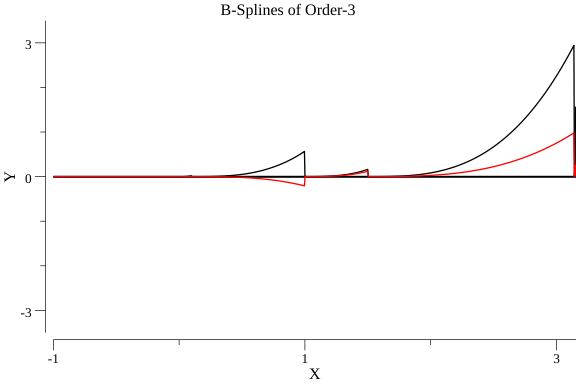
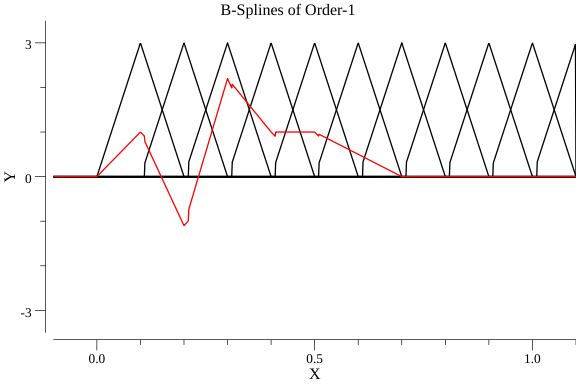
[Spline] Implement Unique B-Spline #2 : Fix interface BSpline

diff --git a/bspline/bspline_test.go b/bspline/bspline_test.go
@@ -12,13 +12,13 @@ import (
 )
 
 func TestSimpleBSpline(t *testing.T) {
-	const order = 3
-	// knots := knot.NewUniformKnot(0, 1, 10, order)
-	builder := knot.NewArbitraryKnotBuilder()
-	builder = builder.Append(0.0).Append(1.0).Append(1.5).Append(0.1).Append(3.1415)
-	builder = builder.AppendPaddingLeft(-1.0).AppendPaddingLeft(-2.0)
-	builder = builder.AppendPaddingRight(3.15).AppendPaddingRight(3.155)
-	knots := builder.Build()
+	const order = 1
+	knots := knot.NewUniformKnot(0, 1, 10, order)
+	// builder := knot.NewArbitraryKnotBuilder()
+	// builder = builder.Append(0.0).Append(1.0).Append(1.5).Append(0.1).Append(3.1415)
+	// builder = builder.AppendPaddingLeft(-1.0).AppendPaddingLeft(-2.0)
+	// builder = builder.AppendPaddingRight(3.15).AppendPaddingRight(3.155)
+	// knots := builder.Build()
 
 	p, err := plot.New()
 	if err != nil {
@@ -30,7 +30,7 @@ func TestSimpleBSpline(t *testing.T) {
 
 	for i := 0; i <= knots.Count(); i++ {
 		coef := make([]float64, knots.Count()+order)
-		simpleSpline := NewBSplineSimple(order, knots, coef).(*bSplineSimple)
+		simpleSpline := NewBSplineSimple(order, knots, coef)
 		simpleSpline.SetCoef(i, 3)
 		x := knots.At(i)
 		fmt.Printf("B[%d](%f)=%f\n", i, x, simpleSpline.At(x))
@@ -41,7 +41,7 @@ func TestSimpleBSpline(t *testing.T) {
 	}
 
 	coef := make([]float64, knots.Count()+order)
-	simpleSpline := NewBSplineSimple(order, knots, coef).(*bSplineSimple)
+	simpleSpline := NewBSplineSimple(order, knots, coef)
 	simpleSpline.SetCoef(0, 1)
 	simpleSpline.SetCoef(1, -1.1)
 	simpleSpline.SetCoef(2, 2.2)

diff --git a/bspline/simpleBspline.go b/bspline/simpleBspline.go
@@ -33,15 +33,6 @@ func (b *bSplineSimple) At(x float64) float64 {
 	return v
 }
 
-func (b *bSplineSimple) AtIdx(idx int) float64 {
-	x := b.Knots().At(idx)
-	v := b.GetCoef(idx) * b.GetBSpline(idx)(x)
-	for m := 1; m <= b.order; m++ {
-		v += b.GetCoef(idx-m) * b.GetBSpline(idx-m)(x)
-	}
-	return v
-}
-
 func (b *bSplineSimple) Knots() knot.Knot {
 	return b.knots
 }

diff --git a/bspline/bspline.go b/bspline/bspline.go
@@ -5,7 +5,9 @@ import "github.com/helloworldpark/gonaturalspline/knot"
 // BSpline BSpline represents a function that implements B-Spline.
 type BSpline interface {
 	At(x float64) float64
-	AtIdx(idx int) float64
 	Knots() knot.Knot
 	Order() int
+	SetCoef(idx int, v float64)
+	GetCoef(idx int) float64
+	GetBSpline(idx int) bFunc
 }
